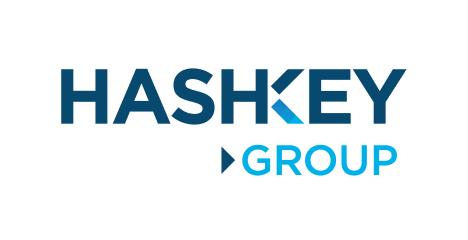
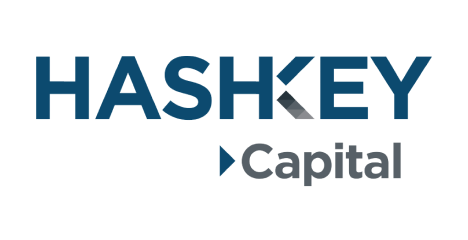
chore: update image & add media partner (#117)
* chore: update sponsor

* chore: add media partner

Changed region(s): [[0.0598, 0.2333, 0.9274, 0.525], [0.4487, 0.5833, 0.8675, 0.7875]]

diff --git a/public/constant/mediaPartners.ts b/public/constant/mediaPartners.ts
@@ -10,6 +10,7 @@ import {
   blockbarUrl,
   decryptUrl,
   twBlockchainAssociationUrl,
+  dlnewsUrl,
 } from "./urls";
 
 import web3Plus from "@/public/images/web3Plus.png";
@@ -23,6 +24,7 @@ import coinspeaker from "@/public/images/Coinspeaker.png";
 import blockbar from "@/public/images/blockbar.png";
 import decrypt from "@/public/images/decrypt.png";
 import twBlockchainAssociation from "@/public/images/taiwanBlockchainAssociation.png";
+import dlNews from "@/public/images/dlNews.png";
 
 import { StaticImageData } from "next/image";
 
@@ -38,6 +40,7 @@ const mediaPartners: MediaPartnerProps[] = [
   { name: "blockbar", url: blockbarUrl, logo: blockbar },
   { name: "Coin Speaker", url: coinspeakerUrl, logo: coinspeaker },
   { name: "decrypt", url: decryptUrl, logo: decrypt },
+  { name: "DLNews", url: dlnewsUrl, logo: dlNews },
   { name: "PANews", url: panewsUrl, logo: pan },
   { name: "Web3+", url: web3plusUrl, logo: web3Plus },
   { name: "Crypto City", url: cryptoCityUrl, logo: cryptoCity },

diff --git a/public/constant/urls.ts b/public/constant/urls.ts
@@ -61,6 +61,7 @@ export const blockbeatsUrl = "https://www.theblockbeats.info/";
 export const blockbarUrl = "https://blockbar.io/";
 export const decryptUrl = "https://decrypt.co/";
 export const twBlockchainAssociationUrl = "https://t-blockchain-a.org/";
+export const dlnewsUrl = "https://www.dlnews.com/";
 
 export const bloctoUrl = "https://twitter.com/BloctoApp";
 
